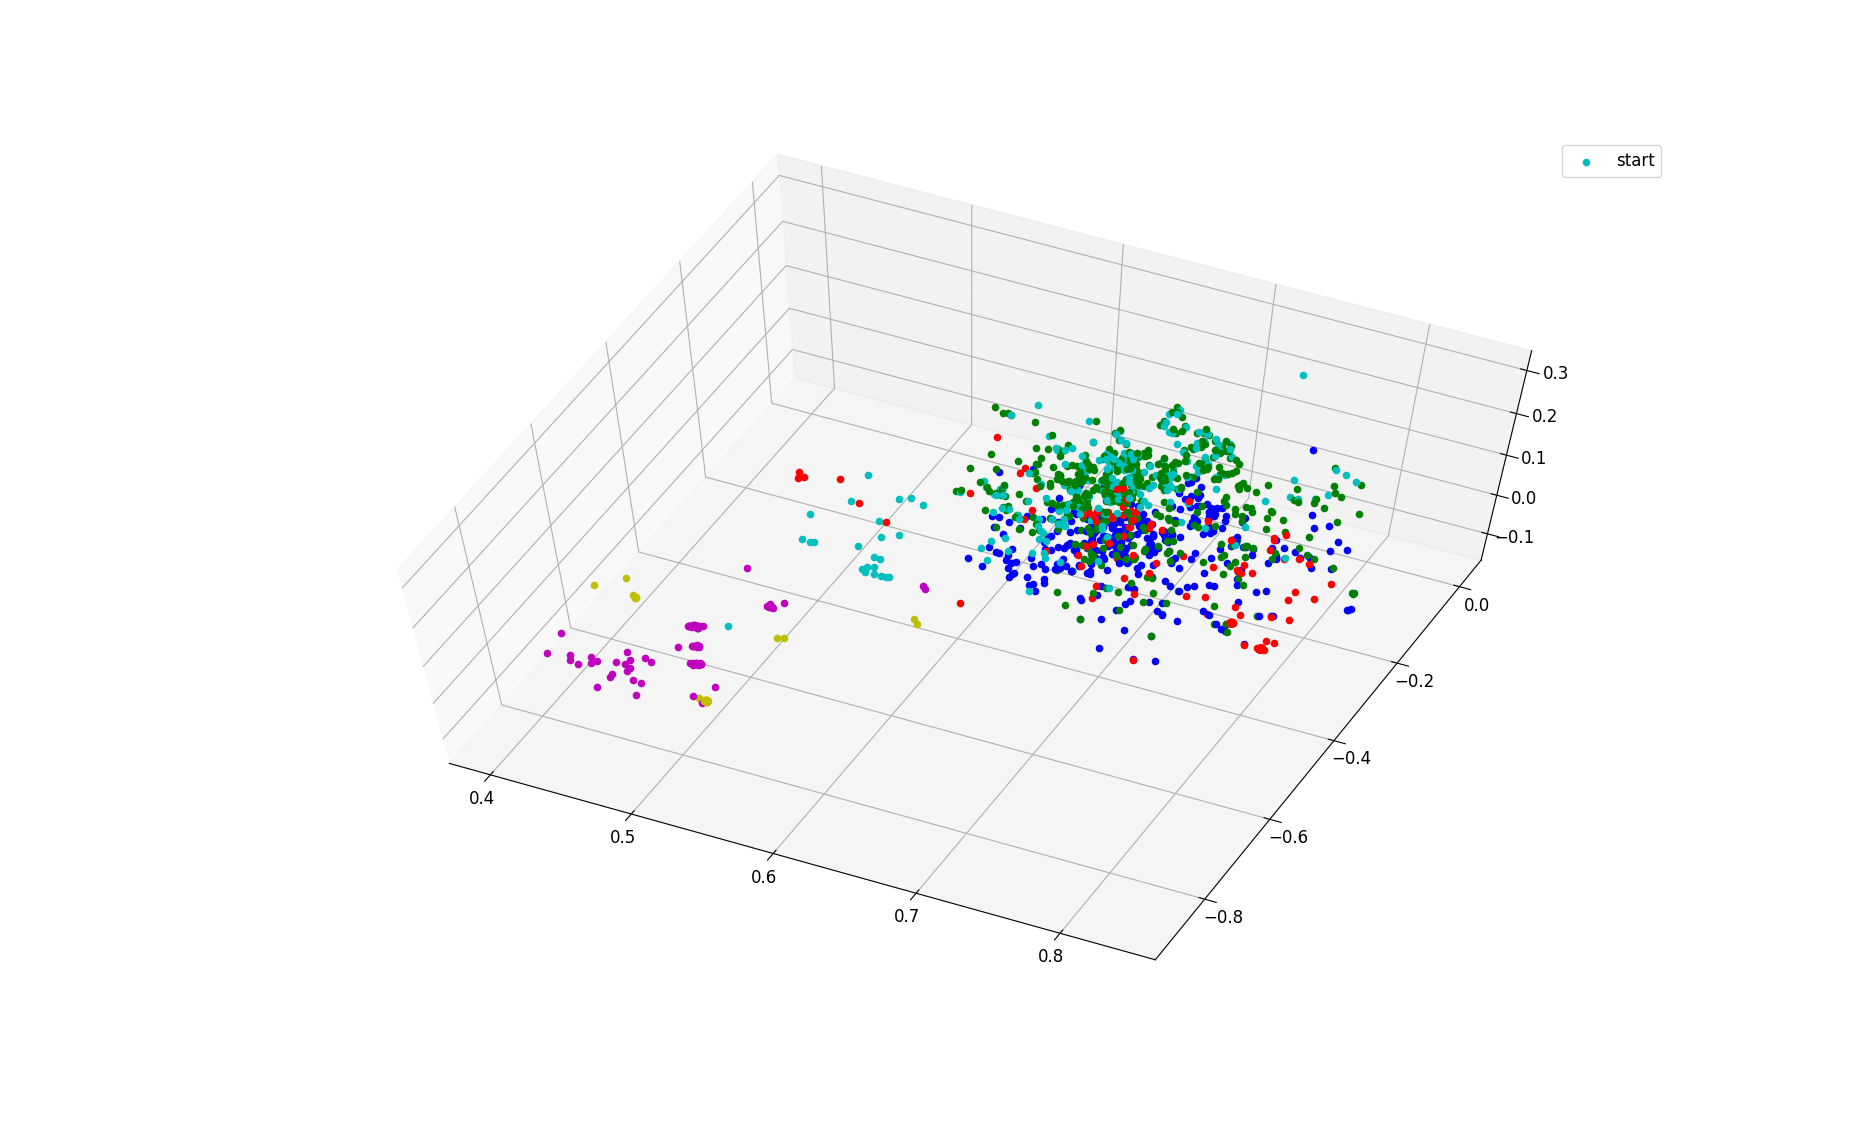
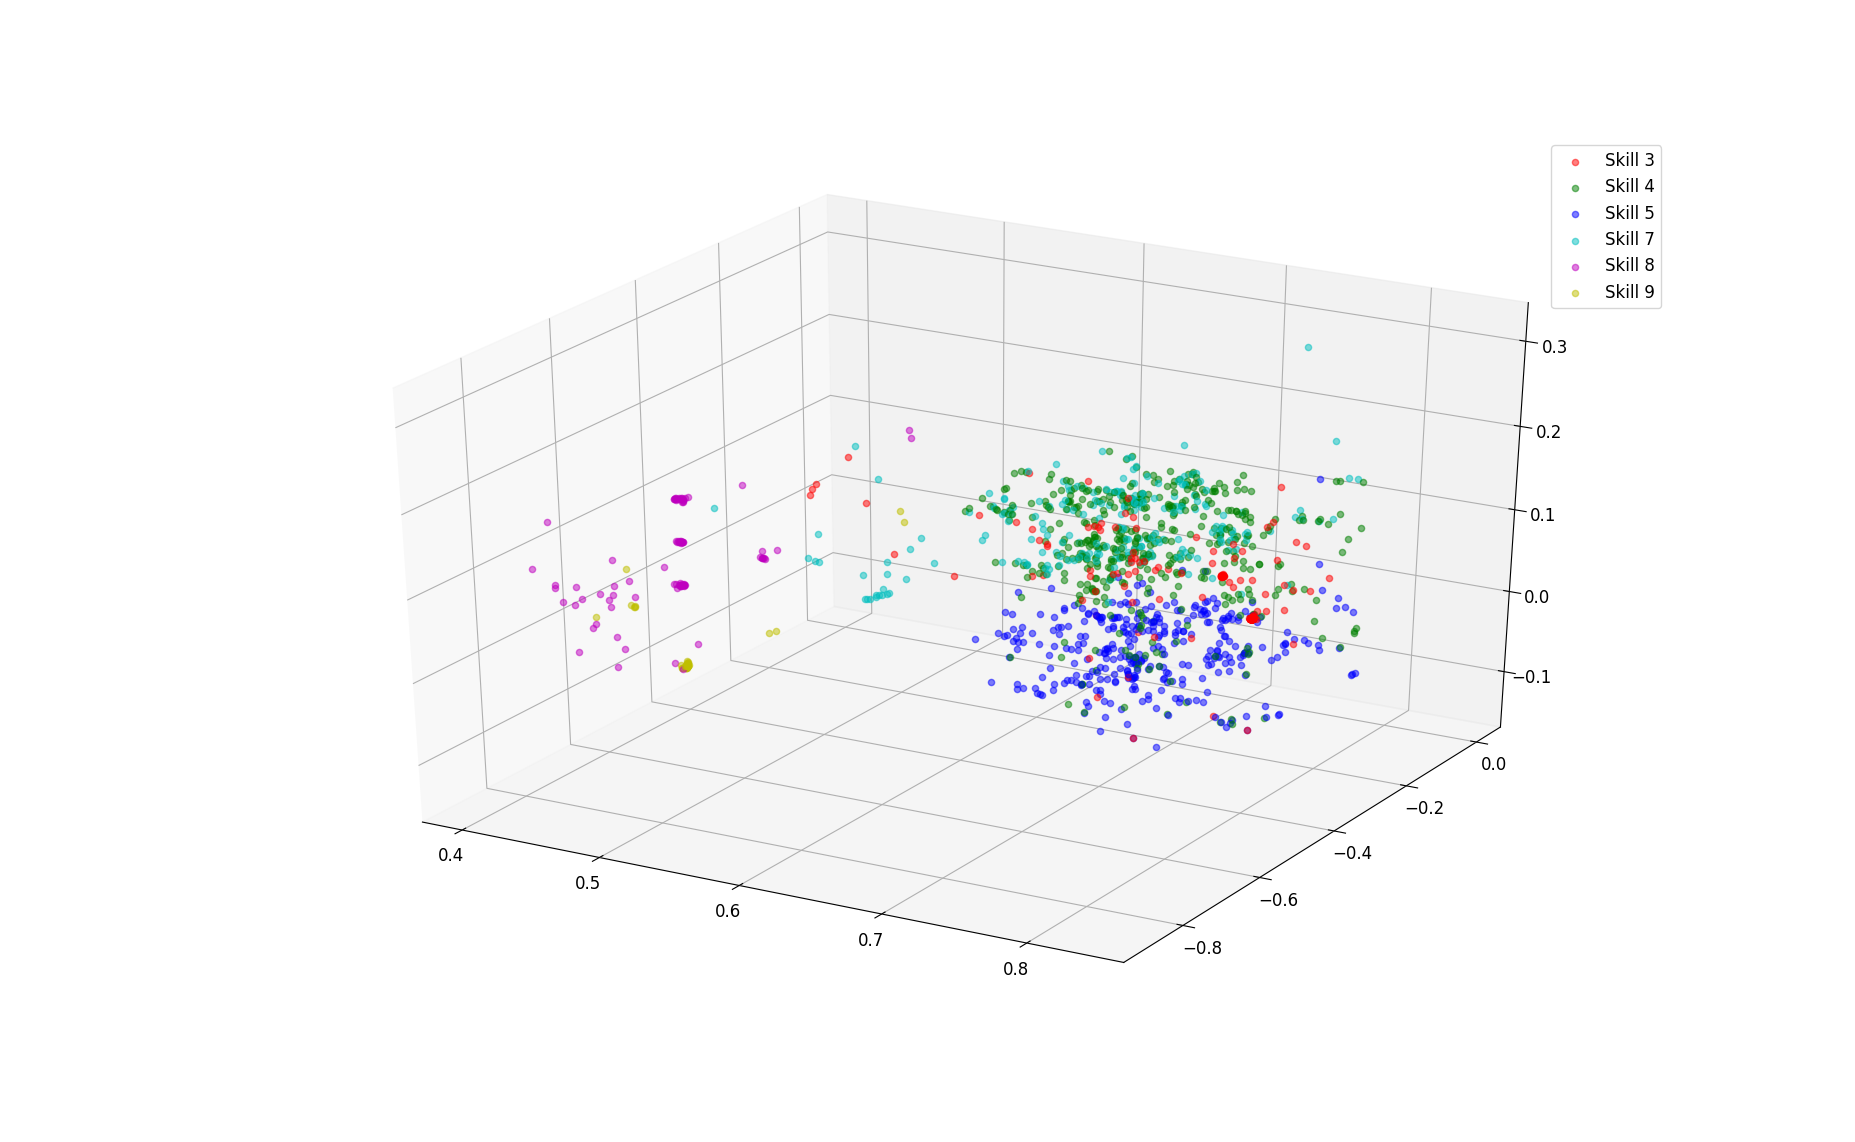
successful plot tsne with label of skill

diff --git a/plot_tsne.py b/plot_tsne.py
@@ -4,39 +4,39 @@ from sklearn.datasets import load_iris
 from sklearn.decomposition import PCA
 import matplotlib.pyplot as plt
 import numpy as np
+from collections import OrderedDict
+from mpl_toolkits.mplot3d import Axes3D
 
-class data():
-    def __init__(self, data, target):
-        self.data = data
-        self.target = target
+# kitting = np.load('/home/birl-spai-ubuntu14/baxter_ws/src/SPAI/Recovery_reimplement/sensor_info_no_recovery_skill_pos.npy')
+# tag = np.load('/home/birl-spai-ubuntu14/baxter_ws/src/SPAI/Recovery_reimplement/tag_info_no_recovery_skill_pos.npy')
 
-# 加载数据集
-iris = load_iris()
-kitting = np.load('/home/birl-spai-ubuntu14/baxter_ws/src/SPAI/Recovery_reimplement/sensor_info_no_recovery_skill_pos.npy')
-tag = np.load('/home/birl-spai-ubuntu14/baxter_ws/src/SPAI/Recovery_reimplement/tag_info_no_recovery_skill_pos.npy')
+kitting = np.load('/home/birl-spai-ubuntu14/baxter_ws/src/SPAI/Recovery_reimplement/sensor_info_no_recovery_skill_pos_et.npy')
+tag = np.load('/home/birl-spai-ubuntu14/baxter_ws/src/SPAI/Recovery_reimplement/tag_info_no_recovery_skill_pos_et.npy')
 
 
-# # 共有150个例子， 数据的类型是numpy.ndarray
-# print(iris.data.shape)
+colors = {3:'black',
+            4:'g',
+            5:'b',
+            7:'c',
+            8:'m',
+            9:'y'
+                }
+
 print(kitting.shape)
 
-# 对应的标签有0,1,2三种
-# print(iris.target.shape)
-# 使用TSNE进行降维处理
-# tsne = TSNE(n_components=2, learning_rate=100).fit_transform(iris.data)
-tsne = TSNE(n_components=2, learning_rate=100).fit_transform(kitting)
-# 使用PCA 进行降维处理
-# pca = PCA().fit_transform(iris.data)
-# pca = PCA().fit_transform(kitting)
-# # 设置画布的大小
-# plt.figure(figsize=(12, 6))
-# plt.subplot(121)
-# plt.scatter(tsne[:, 0], tsne[:, 1], c=iris.target)
-plt.scatter(tsne[:, 0], tsne[:, 1], c=tag)
+tsne = TSNE(n_components=3, learning_rate=100).fit_transform(kitting)
 
-# plt.subplot(122)
-# plt.scatter(pca[:, 0], pca[:, 1], c=iris.target)
-# plt.scatter(pca[:, 0], pca[:, 1])
+# plt.scatter(tsne[:, 0], tsne[:, 1], c=colors[t], label ='Skill ' + str(1), alpha=0.5)
+# plt.scatter(tsne[:, 0], tsne[:, 1], c=tag, label ='Skill ' + str(1), alpha=0.5)
+fig = plt.figure()
+ax = fig.gca(projection='3d', adjustable='box')
 
-plt.colorbar()
+for tg, p in zip(tag, tsne):
+    ax.scatter(p[0], p[1], p[2], c=colors[tg], label ='Skill ' + str(tg), alpha=0.55)
+
+handles, labels = plt.gca().get_legend_handles_labels()
+by_label = OrderedDict(zip(labels, handles))
+plt.legend(by_label.values(), by_label.keys(), loc=1)
+fig.savefig('tsne.png', format="png", dpi=300)
+# plt.colorbar()
 plt.show()

diff --git a/plot_kitting_ellipsoid.py b/plot_kitting_ellipsoid.py
@@ -66,13 +66,17 @@ for i, r_ss in enumerate(r_s):
     x = np.mat(rx * np.outer(np.cos(u), np.sin(v)))+r_ss[2][i][0][0]
     y = np.mat(ry * np.outer(np.sin(u), np.sin(v)))+r_ss[2][i][0][1]
     z = np.mat(rz * np.outer(np.ones_like(u), np.cos(v)))+r_ss[2][i][0][2]
-
+    N = i
     # Plot the surface
+    # m = [104.48, 111.73,109.93,139.95,95.05,150.49,136.96,157.75, 4, 56, 78, 23]
+    # my_col = cm.jet(np.random.rand(i,i))
     ax.plot_surface(x, y, z, cmap=cm.coolwarm, alpha=0.5)
-
-    cset = ax.contourf(x, y, z, zdir='x', offset=-2*rx, cmap=cm.coolwarm)
-    cset = ax.contourf(x, y, z, zdir='y', offset=1.8*ry, cmap=cm.coolwarm)
-    cset = ax.contourf(x, y, z, zdir='z', offset=-2*rz, cmap=cm.coolwarm)
+    ax.set_facecolor('#eafff5')
+    # ax.set_facecolor(np.random.rand(3))
+    
+    cset = ax.contourf(x, y, z, zdir='x', offset=-2*rx, cmap=cm.coolwarm, alpha=0.5)
+    cset = ax.contourf(x, y, z, zdir='y', offset=1.8*ry, cmap=cm.coolwarm, alpha=0.5)
+    cset = ax.contourf(x, y, z, zdir='z', offset=-2*rz, cmap=cm.coolwarm, alpha=0.5)
     max_radius = max(rx, ry, rz)
 
 # ax.set_xlabel('X')
